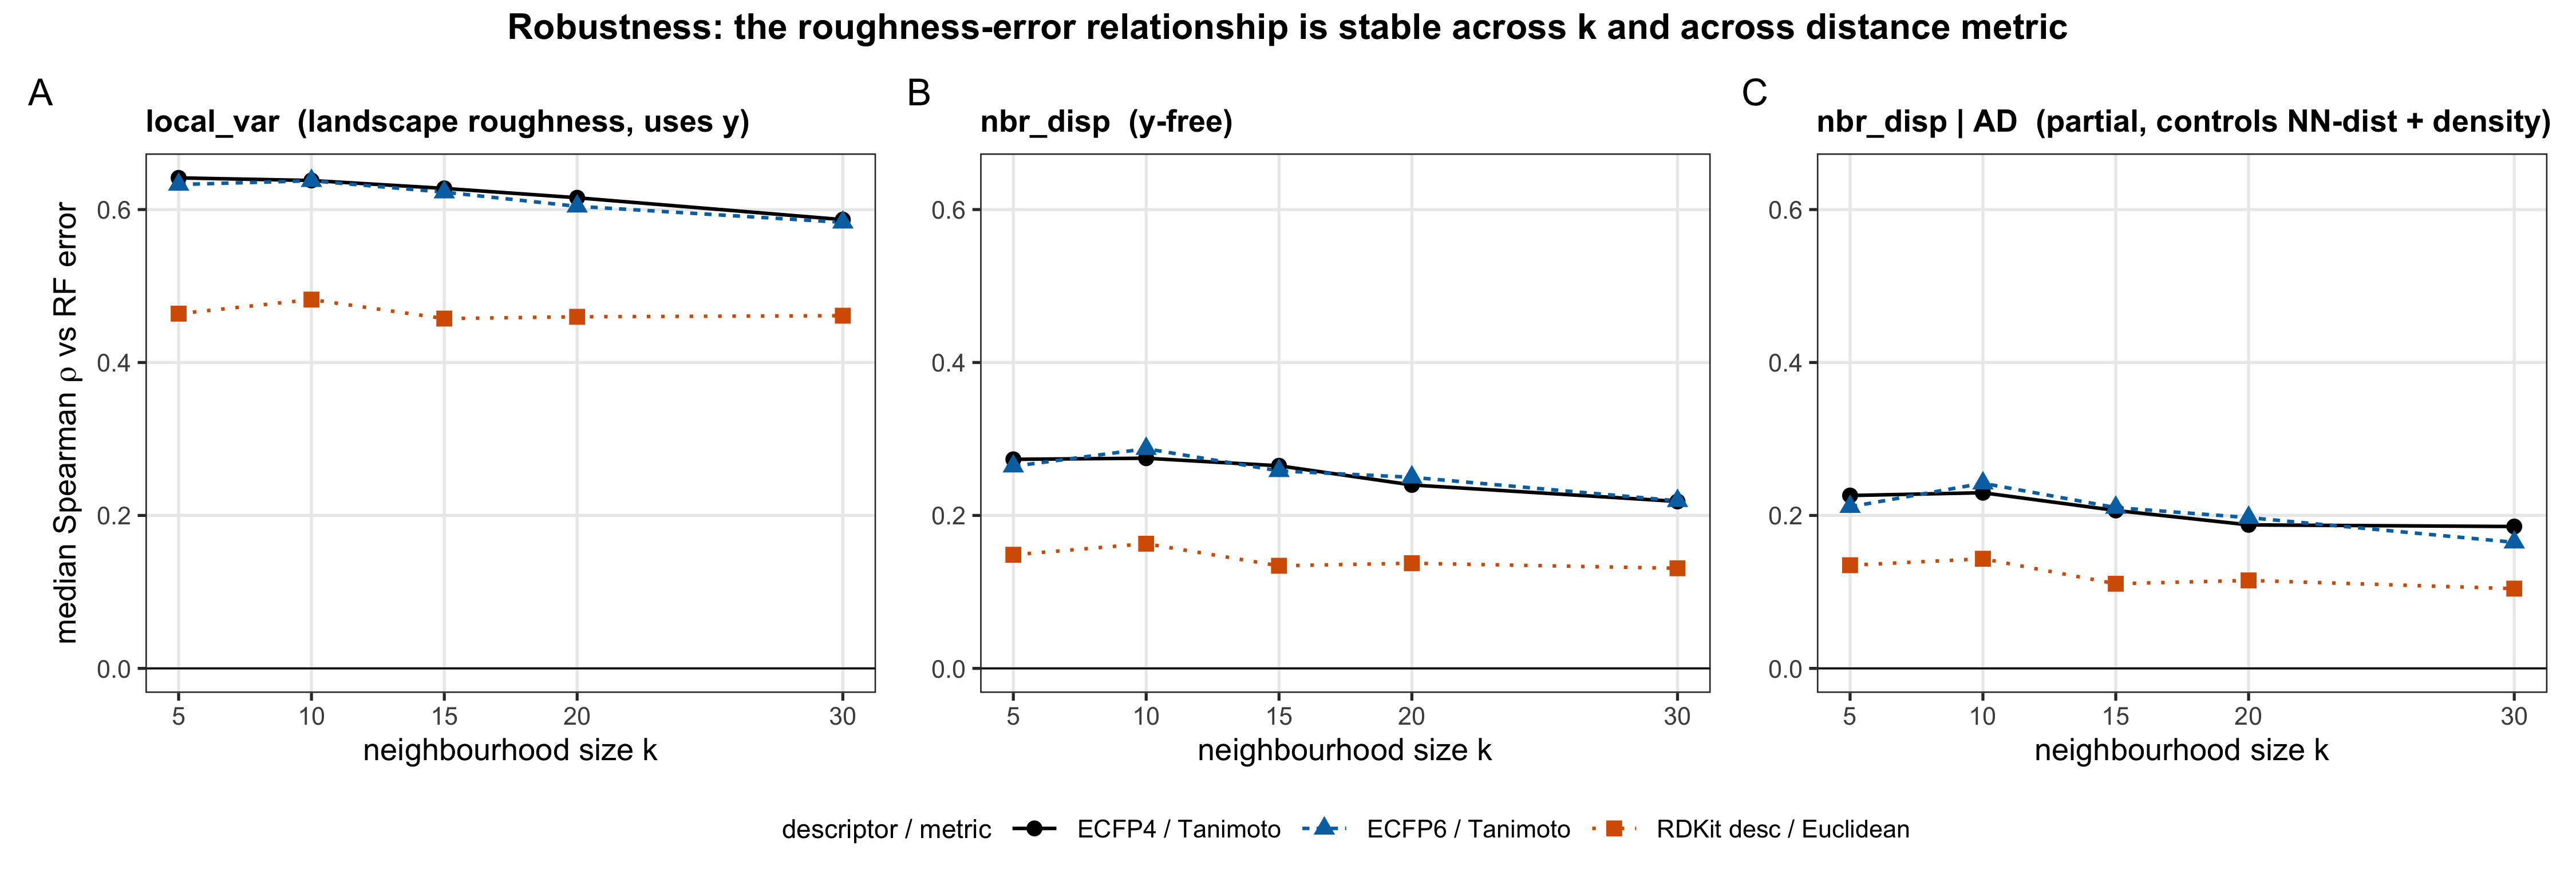
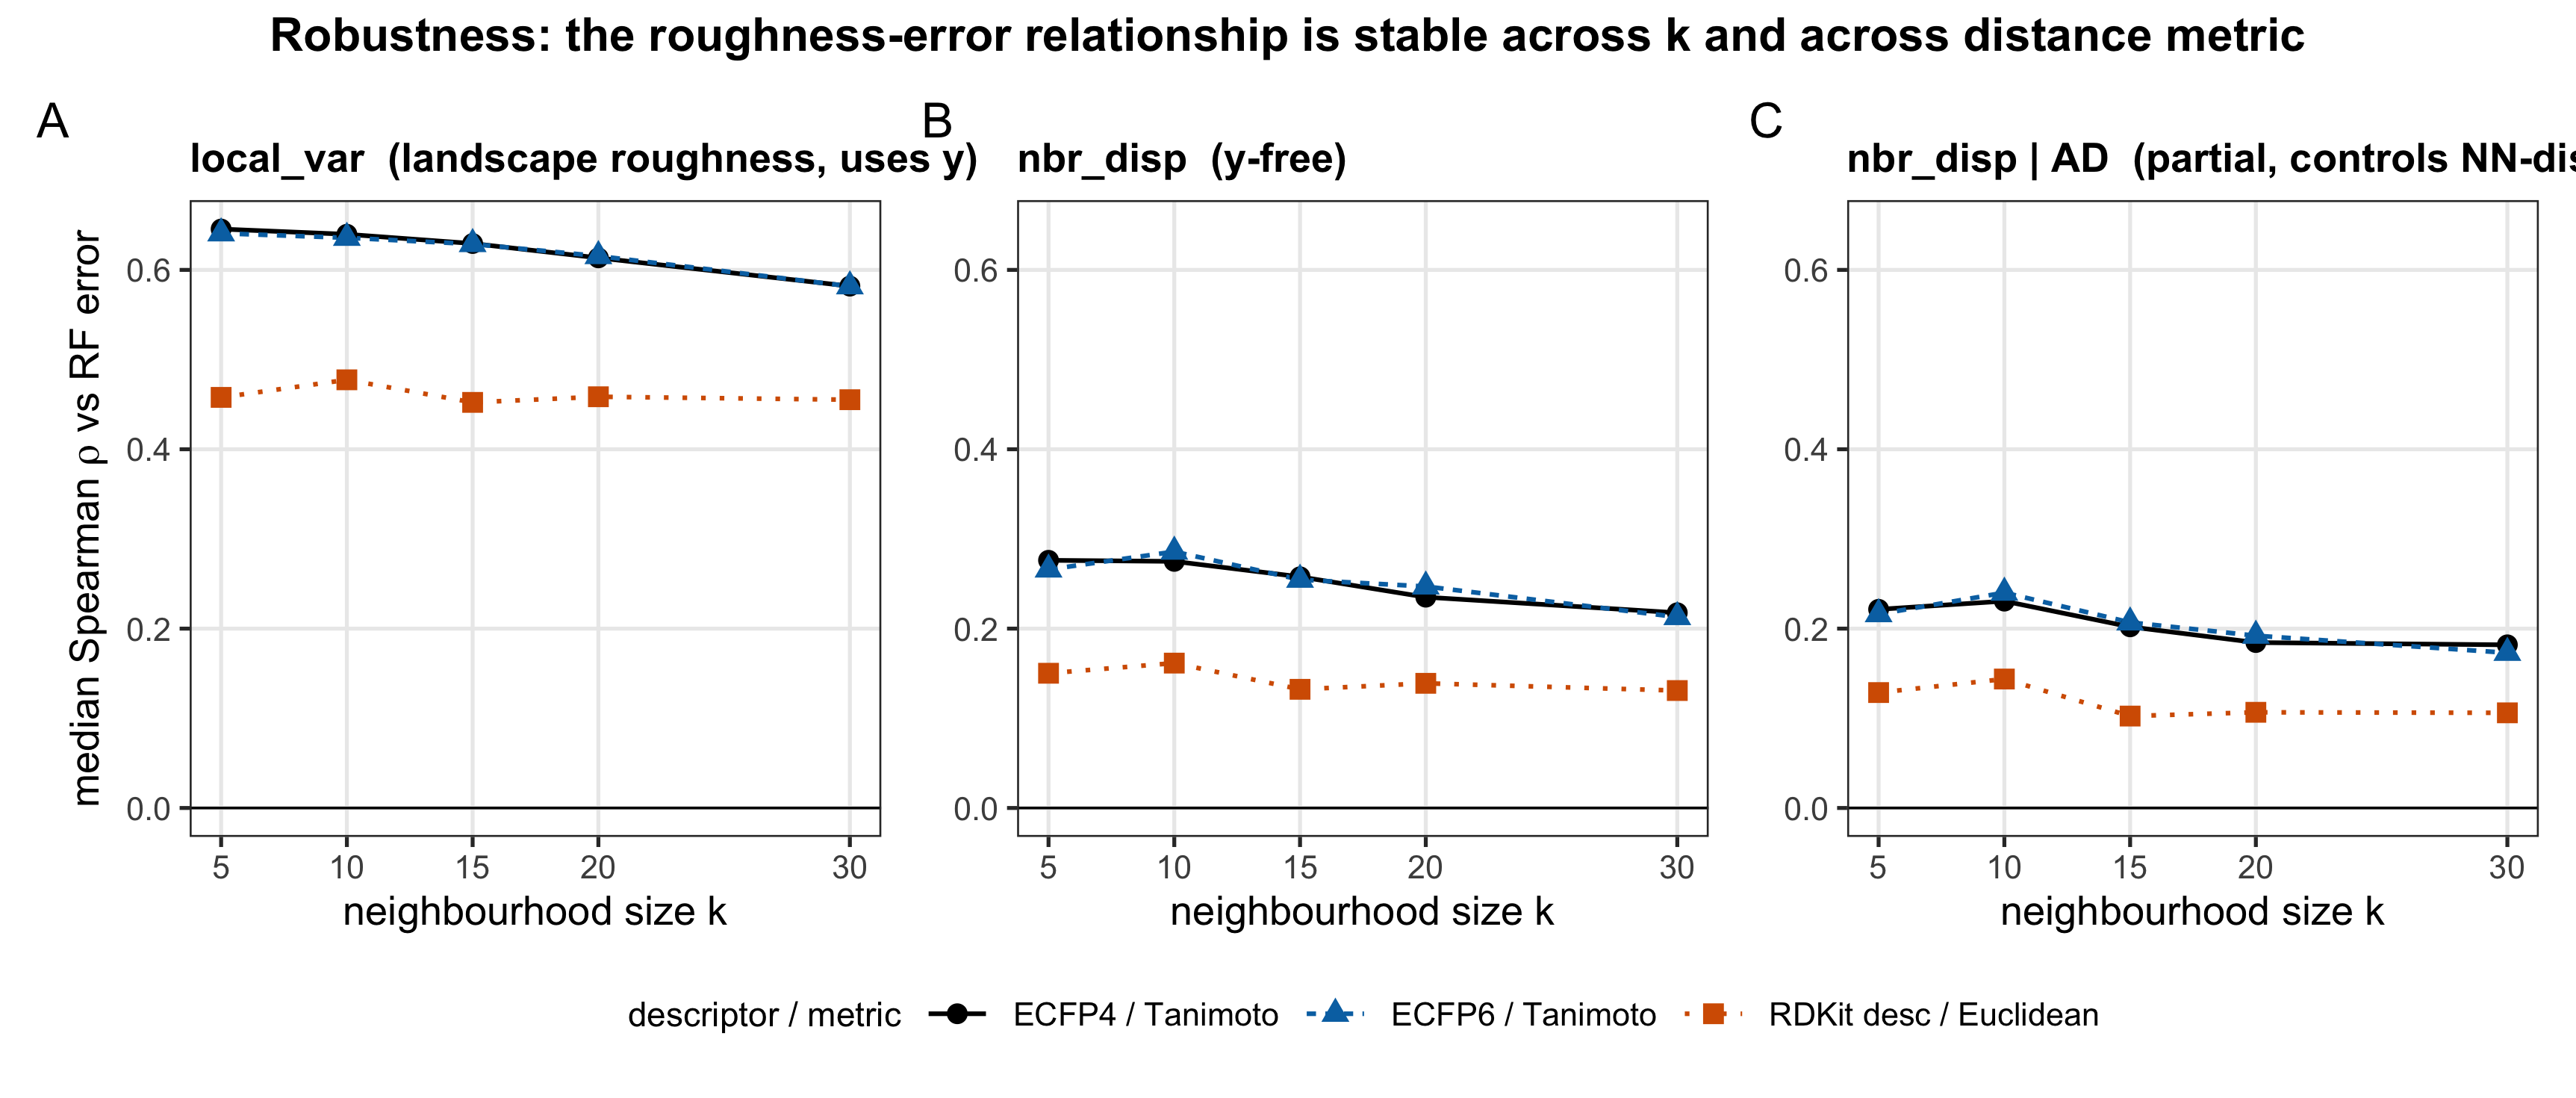
Reproducibility: fix cache-listing bug so reproduce.sh runs from a fresh checkout
- 5 scripts did os.listdir(cache/) then pd.read_csv on each entry, choking on the
  gnn/gnn2/models subdirs and on robustness_*.csv outputs -> filter to target CSVs.
- Regenerate robustness figure (Fig 2) via fig3.R at the larger size; commit
  results/robustness_summary.csv (was gitignored, so a fresh clone could not build Fig 2).
- Verified reproduction: core descriptor/RF/partial-correlation/cliff-AUC and robustness
  numbers match the manuscript to 2 decimals; fixed-GNN matches; PDF rebuilt.

diff --git a/src/make_gnn_panelB.py b/src/make_gnn_panelB.py
@@ -40,7 +40,8 @@ add("fixed-60", "gap_fixed", df, "data")
 have_cache = os.path.isdir(CACHE_GNN2) and len(os.listdir(CACHE_GNN2)) > 0
 if have_cache:
     tuned = pd.concat([pd.read_csv(os.path.join(CACHE_GNN2, f))
-                       for f in sorted(os.listdir(CACHE_DIR))], ignore_index=True)
+                       for f in sorted(x for x in os.listdir(CACHE_DIR) if x.endswith(".csv") and not x.startswith("robustness"))],
+                      ignore_index=True)
     assert len(tuned) == len(df) and (tuned.smiles.values == df.smiles.values).mean() == 1.0
     df["gap_tuned"] = tuned.gnn_err.values - df["rf_err"].values
     add("tuned", "gap_tuned", df, "data")

diff --git a/src/analyze.py b/src/analyze.py
@@ -25,7 +25,7 @@ OUT = RESULTS_DIR
 
 # load + merge (rows are already in the same order)
 frames = []
-for f in sorted(os.listdir(CACHE)):
+for f in sorted(x for x in os.listdir(CACHE) if x.endswith(".csv") and not x.startswith("robustness")):
     d = pd.read_csv(os.path.join(CACHE, f))
     g = pd.read_csv(os.path.join(CACHE_GNN, f))
     assert len(d) == len(g)

diff --git a/src/analyze_gnn.py b/src/analyze_gnn.py
@@ -9,7 +9,7 @@ from scipy.stats import spearmanr, wilcoxon
 df = pd.read_csv(os.path.join(RESULTS_DIR, "all_per_compound.csv"))  # has fixed-60 gnn_err
 # pull in the tuned gnn_err (cache_gnn2, same sorted order as cache)
 tuned = []
-for f in sorted(os.listdir(CACHE_DIR)):
+for f in sorted(x for x in os.listdir(CACHE_DIR) if x.endswith(".csv") and not x.startswith("robustness")):
     tuned.append(pd.read_csv(os.path.join(CACHE_GNN2, f)))
 tuned = pd.concat(tuned, ignore_index=True)
 assert len(tuned) == len(df) and (tuned.smiles.values == df.smiles.values).mean() == 1.0, "alignment!"

diff --git a/src/model_agnostic_analyze.py b/src/model_agnostic_analyze.py
@@ -15,7 +15,7 @@ def partial(x, y, Z):
     return np.corrcoef(rx, ry)[0, 1]
 
 rows = []
-for f in sorted(os.listdir("cache")):
+for f in sorted(x for x in os.listdir("cache") if x.endswith(".csv") and not x.startswith("robustness")):
     c = pd.read_csv(os.path.join("cache", f)); m = pd.read_csv(os.path.join("cache_models", f))
     c["gbt_err"] = m.gbt_err.values; c["svr_err"] = m.svr_err.values; rows.append(c)
 df = pd.concat(rows, ignore_index=True)

diff --git a/src/robustness.py b/src/robustness.py
@@ -67,7 +67,7 @@ def dist_test_train(te_smiles, tr_smiles):
         return cdist(Xte, Xtr, "euclidean")
 
 rows = []
-for f in sorted(os.listdir(CACHE)):
+for f in sorted(x for x in os.listdir(CACHE) if x.endswith(".csv") and not x.startswith("robustness")):
     name = f[:-4]
     cache = pd.read_csv(os.path.join(CACHE, name + ".csv"))   # test rows in order: y, rf_err, cliff_mol
     df = pd.read_csv(os.path.join(DATADIR, name + ".csv"))